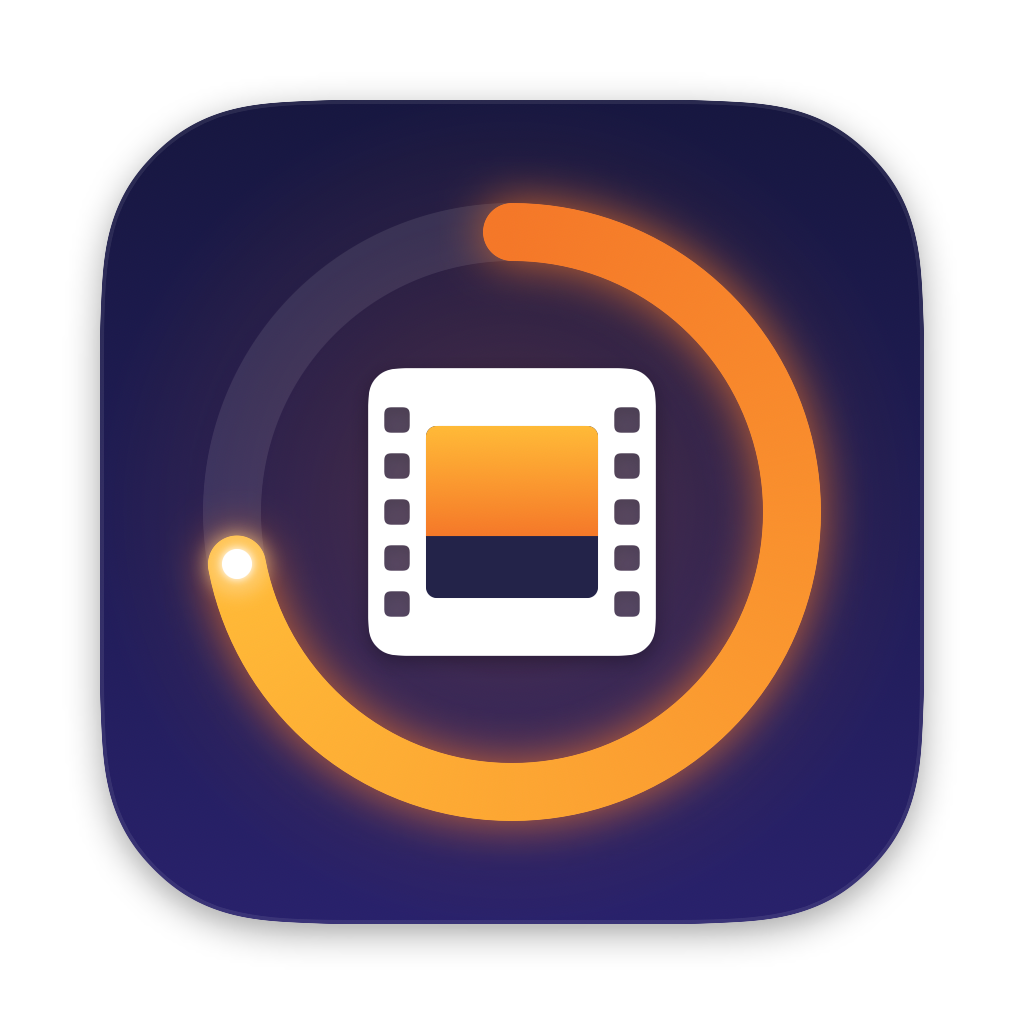
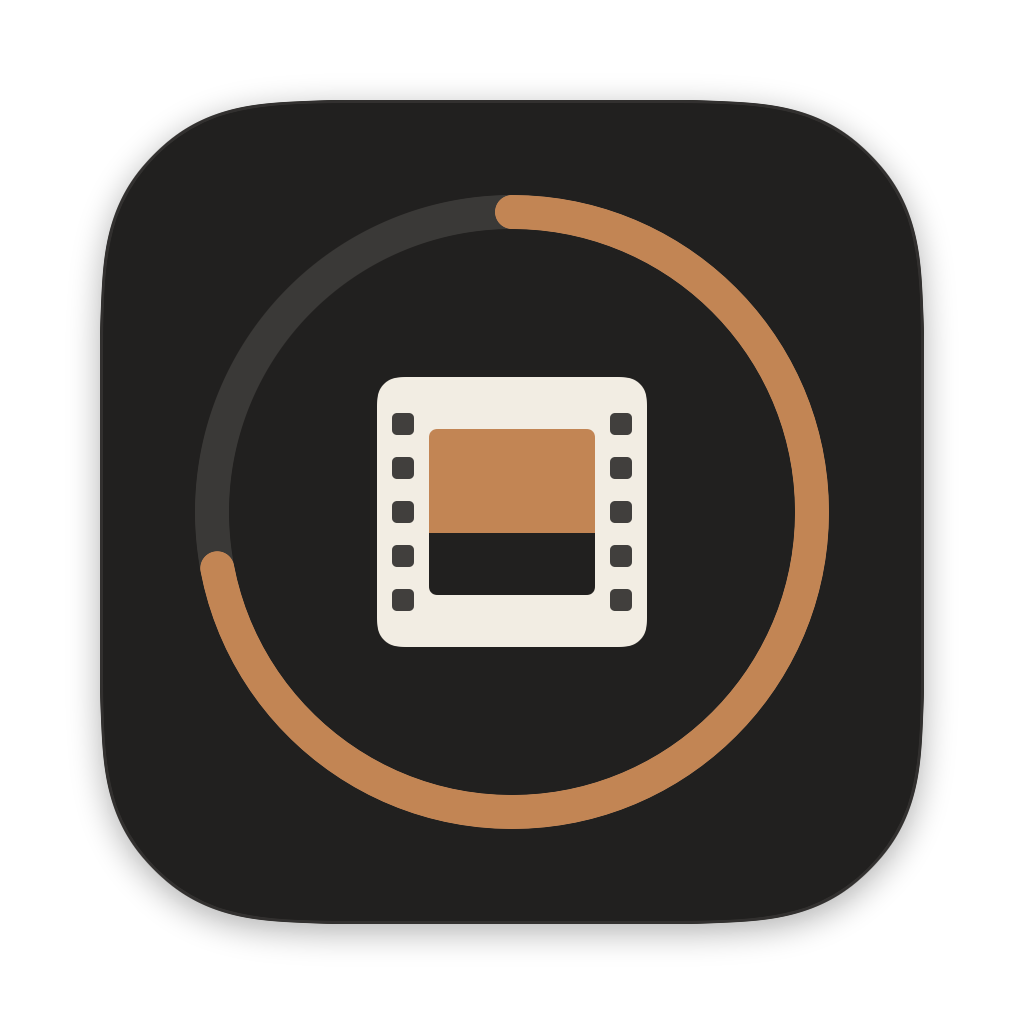
Restyle with a quieter charcoal, ivory and copper palette

diff --git a/Sources/BlenderRenderMonitor/Views.swift b/Sources/BlenderRenderMonitor/Views.swift
@@ -1,12 +1,12 @@
 import SwiftUI
 
 enum Brand {
-    static let orange = Color(red: 0.96, green: 0.47, blue: 0.16)
-    static let amber = Color(red: 1.0, green: 0.73, blue: 0.22)
-    static let navy = Color(red: 0.09, green: 0.09, blue: 0.25)
-    static let indigo = Color(red: 0.16, green: 0.13, blue: 0.42)
-    static let fire = LinearGradient(colors: [orange, amber], startPoint: .leading, endPoint: .trailing)
-    static let night = LinearGradient(colors: [navy, indigo], startPoint: .topLeading, endPoint: .bottomTrailing)
+    /// The single accent: a muted copper, used sparingly.
+    static let copper = Color(red: 0.70, green: 0.47, blue: 0.29)
+    static let sage = Color(red: 0.42, green: 0.55, blue: 0.43)
+    static let brick = Color(red: 0.67, green: 0.31, blue: 0.27)
+    static let hairline = Color.primary.opacity(0.09)
+    static let wash = Color.primary.opacity(0.05)
 }
 
 struct ContentView: View {
@@ -29,7 +29,7 @@ struct ContentView: View {
             }
         }
         .frame(minWidth: 480, minHeight: 260)
-        .tint(Brand.orange)
+        .tint(Brand.copper)
         .toolbar {
             ToolbarItemGroup {
                 Picker("Run", selection: Binding(get: { store.maxConcurrent }, set: { store.setMaxConcurrent($0) })) {
@@ -83,14 +83,13 @@ struct JobRow: View {
             VStack(alignment: .leading, spacing: 6) {
                 HStack(alignment: .firstTextBaseline) {
                     if let position = job.queuePosition, store.queueLength > 1 {
-                        Text("#\(position)")
-                            .font(.system(.caption, design: .rounded).weight(.bold).monospacedDigit())
-                            .foregroundStyle(.white)
-                            .padding(.horizontal, 6)
-                            .padding(.vertical, 1)
-                            .background(Capsule().fill(position == 1 ? AnyShapeStyle(Brand.fire) : AnyShapeStyle(Brand.indigo)))
+                        Text("\(position)")
+                            .font(.caption2.weight(.medium).monospacedDigit())
+                            .foregroundStyle(position == 1 ? Brand.copper : .secondary)
+                            .frame(minWidth: 16, minHeight: 16)
+                            .overlay(Circle().strokeBorder(position == 1 ? Brand.copper : Brand.hairline, lineWidth: 1))
                     }
-                    Text(job.title).font(.system(.headline, design: .rounded)).lineLimit(1)
+                    Text(job.title).font(.system(size: 13, weight: .semibold)).lineLimit(1)
                         .layoutPriority(1)
                     Text(job.outputName).font(.caption).foregroundStyle(.secondary).lineLimit(1)
                         .truncationMode(.head)
@@ -113,12 +112,13 @@ struct JobRow: View {
             VStack(alignment: .trailing, spacing: 2) {
                 if state == .rendering {
                     Text(Format.duration(job.secondsRemaining(now: now)))
-                        .font(.system(.title2, design: .rounded).weight(.semibold).monospacedDigit())
-                        .foregroundStyle(Brand.fire)
-                    Text("remaining").font(.caption).foregroundStyle(.secondary)
+                        .font(.system(size: 22, weight: .light).monospacedDigit())
+                        .foregroundStyle(.primary)
+                    Text("REMAINING").font(.system(size: 9, weight: .medium)).tracking(1.2).foregroundStyle(.secondary)
                 } else {
-                    Text(state.label)
-                        .font(.system(.callout, design: .rounded).weight(.medium))
+                    Text(state.label.uppercased())
+                        .font(.system(size: 10, weight: .medium))
+                        .tracking(1.2)
                         .foregroundStyle(state.color)
                     if state == .queued, let start = job.expectedStart {
                         Text("starts \(Format.clock(start, relativeTo: now))")
@@ -177,13 +177,12 @@ struct JobRow: View {
         }
         .padding(14)
         .background(
-            RoundedRectangle(cornerRadius: 14, style: .continuous)
+            RoundedRectangle(cornerRadius: 10, style: .continuous)
                 .fill(Color(nsColor: .controlBackgroundColor))
-                .shadow(color: .black.opacity(isHovered ? 0.12 : 0.05), radius: isHovered ? 8 : 3, y: 2)
         )
         .overlay(
-            RoundedRectangle(cornerRadius: 14, style: .continuous)
-                .strokeBorder(isHovered ? Brand.orange.opacity(0.5) : Color.primary.opacity(0.06), lineWidth: 1)
+            RoundedRectangle(cornerRadius: 10, style: .continuous)
+                .strokeBorder(isHovered ? Brand.copper.opacity(0.45) : Brand.hairline, lineWidth: 1)
         )
         .animation(.easeOut(duration: 0.15), value: isHovered)
         .contentShape(Rectangle())
@@ -222,11 +221,11 @@ struct JobDetail: View {
             let state = job.state(now: now)
             Grid(alignment: .leading, horizontalSpacing: 16, verticalSpacing: 6) {
                 HStack(alignment: .firstTextBaseline) {
-                    Text(job.title).font(.system(.headline, design: .rounded))
+                    Text(job.title).font(.system(.title3, design: .serif))
                     Spacer()
                     Text(state == .rendering ? Format.duration(remaining) + " left" : state.label)
-                        .font(.system(.headline, design: .rounded).monospacedDigit())
-                        .foregroundStyle(state == .rendering ? AnyShapeStyle(Brand.fire) : AnyShapeStyle(state.color))
+                        .font(.callout.monospacedDigit())
+                        .foregroundStyle(state == .rendering ? Color.primary : state.color)
                 }
                 .gridCellColumns(2)
                 RenderProgressBar(value: job.progress, active: state == .rendering)
@@ -310,13 +309,14 @@ struct StateIcon: View {
     var body: some View {
         ZStack {
             Circle()
-                .fill(state.color.opacity(showsControl ? 0.3 : 0.15))
+                .fill(showsControl ? state.color.opacity(0.12) : .clear)
+            Circle()
+                .strokeBorder(state.color.opacity(showsControl ? 0.8 : 0.45), lineWidth: 1)
             Image(systemName: symbol)
-                .font(.system(size: 16, weight: .bold))
-                .foregroundStyle(state == .rendering ? AnyShapeStyle(Brand.fire) : AnyShapeStyle(state.color))
-                .symbolEffect(.pulse, isActive: state == .rendering && !showsControl)
+                .font(.system(size: 11, weight: .semibold))
+                .foregroundStyle(state.color)
         }
-        .frame(width: 38, height: 38)
+        .frame(width: 30, height: 30)
         .contentShape(Circle())
     }
 
@@ -338,12 +338,10 @@ struct StateIcon: View {
 extension RenderJob.State {
     var color: Color {
         switch self {
-        case .rendering: Brand.orange
-        case .queued: Brand.indigo
-        case .paused: .yellow
-        case .finished: .green
-        case .stopped, .quitting: .red
-        case .idle, .cancelled: .secondary
+        case .rendering: Brand.copper
+        case .finished: Brand.sage
+        case .stopped, .quitting: Brand.brick
+        case .queued, .paused, .idle, .cancelled: .secondary
         }
     }
 }
@@ -353,14 +351,10 @@ struct UsagePill: View {
     let value: String
 
     var body: some View {
-        HStack(spacing: 3) {
-            Text(label).fontWeight(.semibold).foregroundStyle(Brand.orange)
-            Text(value).foregroundStyle(.primary.opacity(0.75))
+        HStack(spacing: 4) {
+            Text(label).font(.system(size: 9, weight: .medium)).tracking(1).foregroundStyle(.secondary)
+            Text(value).font(.system(size: 11).monospacedDigit()).foregroundStyle(.primary.opacity(0.8))
         }
-        .font(.system(size: 10, design: .rounded).monospacedDigit())
-        .padding(.horizontal, 6)
-        .padding(.vertical, 2)
-        .background(Capsule().fill(Color.primary.opacity(0.06)))
     }
 }
 
@@ -371,14 +365,13 @@ struct RenderProgressBar: View {
     var body: some View {
         GeometryReader { geo in
             ZStack(alignment: .leading) {
-                Capsule().fill(Color.primary.opacity(0.08))
+                Capsule().fill(Brand.wash)
                 Capsule()
-                    .fill(active ? AnyShapeStyle(Brand.fire) : AnyShapeStyle(Color.secondary.opacity(0.5)))
-                    .frame(width: max(6, geo.size.width * value))
-                    .shadow(color: active ? Brand.orange.opacity(0.6) : .clear, radius: 4)
+                    .fill(active ? Brand.copper : Color.secondary.opacity(0.35))
+                    .frame(width: max(3, geo.size.width * value))
             }
         }
-        .frame(height: 6)
+        .frame(height: 3)
     }
 }
 
@@ -386,29 +379,20 @@ struct HeaderView: View {
     let store: JobStore
 
     var body: some View {
-        HStack(spacing: 12) {
-            Image(nsImage: NSApp.applicationIconImage)
-                .resizable()
-                .frame(width: 44, height: 44)
-            VStack(alignment: .leading, spacing: 2) {
-                Text("Render Monitor")
-                    .font(.system(.title2, design: .rounded).weight(.bold))
-                    .foregroundStyle(.white)
-                Text(summary)
-                    .font(.system(.subheadline, design: .rounded).monospacedDigit())
-                    .foregroundStyle(.white.opacity(0.7))
-            }
+        HStack(alignment: .firstTextBaseline, spacing: 12) {
+            Text("Render Monitor")
+                .font(.system(size: 22, weight: .regular, design: .serif))
             Spacer()
+            Text(summary)
+                .font(.system(size: 11).monospacedDigit())
+                .foregroundStyle(.secondary)
         }
-        .padding(.horizontal, 16)
-        .padding(.vertical, 12)
-        .background(
-            ZStack {
-                Brand.night
-                RadialGradient(colors: [Brand.orange.opacity(0.25), .clear], center: .leading,
-                               startRadius: 0, endRadius: 260)
-            }
-        )
+        .padding(.horizontal, 20)
+        .padding(.top, 14)
+        .padding(.bottom, 12)
+        .overlay(alignment: .bottom) {
+            Rectangle().fill(Brand.hairline).frame(height: 1)
+        }
     }
 
     private var summary: String {
@@ -438,7 +422,7 @@ struct EmptyStateView: View {
                 .resizable()
                 .frame(width: 72, height: 72)
                 .opacity(0.9)
-            Text("No Blender renders yet").font(.system(.headline, design: .rounded))
+            Text("No Blender renders yet").font(.system(.title3, design: .serif))
             Text("Blender reports progress through a small hook script. Load it before your own script:")
                 .multilineTextAlignment(.center)
                 .foregroundStyle(.secondary)

diff --git a/icon/make_icon.swift b/icon/make_icon.swift
@@ -2,29 +2,27 @@
 import AppKit
 import SwiftUI
 
-let orange = Color(red: 0.96, green: 0.47, blue: 0.16)
-let amber = Color(red: 1.0, green: 0.73, blue: 0.22)
-let navyTop = Color(red: 0.09, green: 0.09, blue: 0.25)
-let navyBottom = Color(red: 0.16, green: 0.13, blue: 0.42)
+let copper = Color(red: 0.76, green: 0.52, blue: 0.33)
+let ivory = Color(red: 0.95, green: 0.93, blue: 0.89)
+let charcoal = Color(red: 0.13, green: 0.125, blue: 0.12)
 
 struct FilmFrame: View {
     var body: some View {
-        let size: CGFloat = 250, hole: CGFloat = 22, gap: CGFloat = 40
+        let size: CGFloat = 270, hole: CGFloat = 22, gap: CGFloat = 44
         ZStack {
-            RoundedRectangle(cornerRadius: 26, style: .continuous).fill(.white)
+            RoundedRectangle(cornerRadius: 24, style: .continuous).fill(ivory)
             // The picture area, partly "rendered" from the top down.
-            ZStack(alignment: .top) {
-                Rectangle().fill(navyTop.opacity(0.95))
-                LinearGradient(colors: [amber, orange], startPoint: .top, endPoint: .bottom)
-                    .frame(height: 96)
+            VStack(spacing: 0) {
+                Rectangle().fill(copper).frame(height: 104)
+                Rectangle().fill(charcoal)
             }
-            .frame(width: 150, height: 150)
-            .clipShape(RoundedRectangle(cornerRadius: 10, style: .continuous))
+            .frame(width: 166, height: 166)
+            .clipShape(RoundedRectangle(cornerRadius: 8, style: .continuous))
             ForEach(0..<5) { i in
                 ForEach([-1.0, 1.0], id: \.self) { side in
                     RoundedRectangle(cornerRadius: 5, style: .continuous)
                         .frame(width: hole, height: hole)
-                        .offset(x: side * (size / 2 - 25), y: CGFloat(i - 2) * gap)
+                        .offset(x: side * (size / 2 - 26), y: CGFloat(i - 2) * gap)
                         .blendMode(.destinationOut)
                 }
             }
@@ -36,49 +34,28 @@ struct FilmFrame: View {
 
 struct Icon: View {
     var body: some View {
-        let ring: CGFloat = 560, line: CGFloat = 58
-        let progress = 0.72
-        let endAngle = Angle.degrees(360 * progress - 90)
+        let ring: CGFloat = 600, line: CGFloat = 34
         ZStack {
             RoundedRectangle(cornerRadius: 185, style: .continuous)
-                .fill(LinearGradient(colors: [navyTop, navyBottom], startPoint: .top, endPoint: .bottom))
+                .fill(charcoal)
                 .overlay(
                     RoundedRectangle(cornerRadius: 185, style: .continuous)
-                        .strokeBorder(.white.opacity(0.08), lineWidth: 4)
+                        .strokeBorder(ivory.opacity(0.08), lineWidth: 3)
                 )
-                .overlay(
-                    RadialGradient(colors: [orange.opacity(0.22), .clear], center: .center,
-                                   startRadius: 0, endRadius: 420)
-                )
-                .clipShape(RoundedRectangle(cornerRadius: 185, style: .continuous))
                 .frame(width: 824, height: 824)
-                .shadow(color: .black.opacity(0.35), radius: 18, y: 10)
+                .shadow(color: .black.opacity(0.3), radius: 16, y: 8)
 
             Circle()
-                .stroke(.white.opacity(0.09), lineWidth: line)
+                .stroke(ivory.opacity(0.12), lineWidth: line)
                 .frame(width: ring, height: ring)
 
             Circle()
-                .trim(from: 0, to: progress)
-                .stroke(
-                    AngularGradient(colors: [orange, amber], center: .center,
-                                    startAngle: .degrees(0), endAngle: .degrees(360 * progress)),
-                    style: StrokeStyle(lineWidth: line, lineCap: .round)
-                )
+                .trim(from: 0, to: 0.72)
+                .stroke(copper, style: StrokeStyle(lineWidth: line, lineCap: .round))
                 .rotationEffect(.degrees(-90))
                 .frame(width: ring, height: ring)
-                .shadow(color: orange.opacity(0.8), radius: 24)
-
-            Circle()
-                .fill(.white)
-                .frame(width: 30, height: 30)
-                .shadow(color: amber, radius: 14)
-                .shadow(color: .white, radius: 4)
-                .offset(x: cos(endAngle.radians) * ring / 2, y: sin(endAngle.radians) * ring / 2)
 
             FilmFrame()
-                .scaleEffect(1.15)
-                .shadow(color: .black.opacity(0.3), radius: 10, y: 6)
         }
         .frame(width: 1024, height: 1024)
     }
